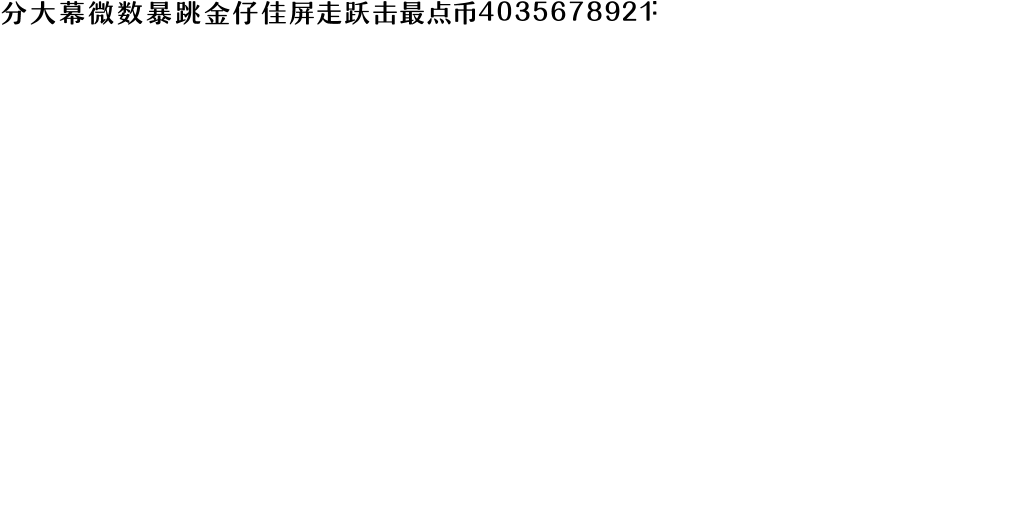
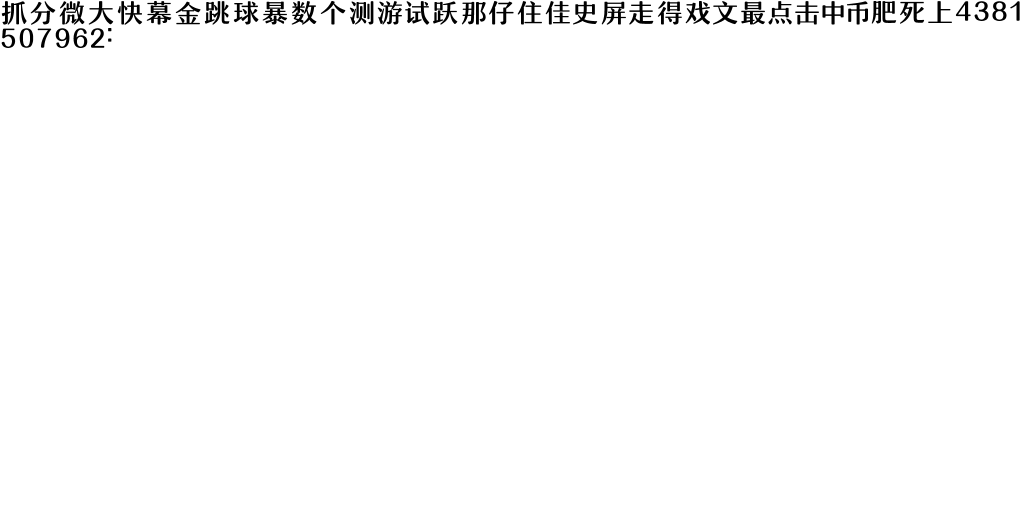
change title

Changed region(s): [[0.0, 0.0, 1.0, 0.0938]]

diff --git a/index.html b/index.html
@@ -3,7 +3,7 @@
     <head>
 
 
-		<title>微仔大暴走</title>
+		<title>抓住那个肥球</title>
 
         <meta name = "viewport" content = "width = device-width, initial-scale = 1.0, maximum-scale = 1.0, minimum-scale = 1.0, user-scalable = 0, minimal-ui" />
         <meta charset="UTF-8">
@@ -48,6 +48,23 @@
         <script src = "phaser.min.js"></script>
 
         <script src = "game.js"></script>
+
+        <script type="text/javascript" src="http://qzonestyle.gtimg.cn/qzone/qzact/common/share/share.js"></script>
+        <script type="text/javascript">
+            setShareInfo({
+                title:          '抓住那个肥球',
+                summary:        '史上死得最快游戏',
+                pic:            'http://hustau.cn/icon-300.png',
+                url:            'http://hustau.cn',
+                WXconfig:       {
+                    swapTitleInWX: true,
+                    appId: '',
+                    timestamp: '',
+                    nonceStr: '',
+                    signature: ''
+                }
+            });
+        </script>
     </head>
     <body>
 

diff --git a/game.js b/game.js
@@ -508,7 +508,7 @@ playGame.prototype = {
         }, 200, Phaser.Easing.Cubic.InOut, true, 0, -1, true);
 
         // adding a bitmap text with in-game instructions ("tap to jump"), setting its anchor and add it to menuGroup group
-        var tapText = game.add.bitmapText(game.width / 2, tap.y - 120, "font", "点击屏幕跳跃", 45);
+        var tapText = game.add.bitmapText(game.width / 2, tap.y - 120, "font", "史上死得最快游戏", 45);
         tapText.anchor.set(0.5);
         this.menuGroup.add(tapText);
 
@@ -518,7 +518,7 @@ playGame.prototype = {
         // this.menuGroup.add(tipText);
 
         // adding a bitmap text with game title, setting its anchor and add it to menuGroup group
-        var titleText = game.add.bitmapText(game.width / 2, tap.y - 200, "font", "微仔大暴走", 90);
+        var titleText = game.add.bitmapText(game.width / 2, tap.y - 200, "font", "抓住那个肥球", 90);
         titleText.anchor.set(0.5);
         this.menuGroup.add(titleText);
     },
